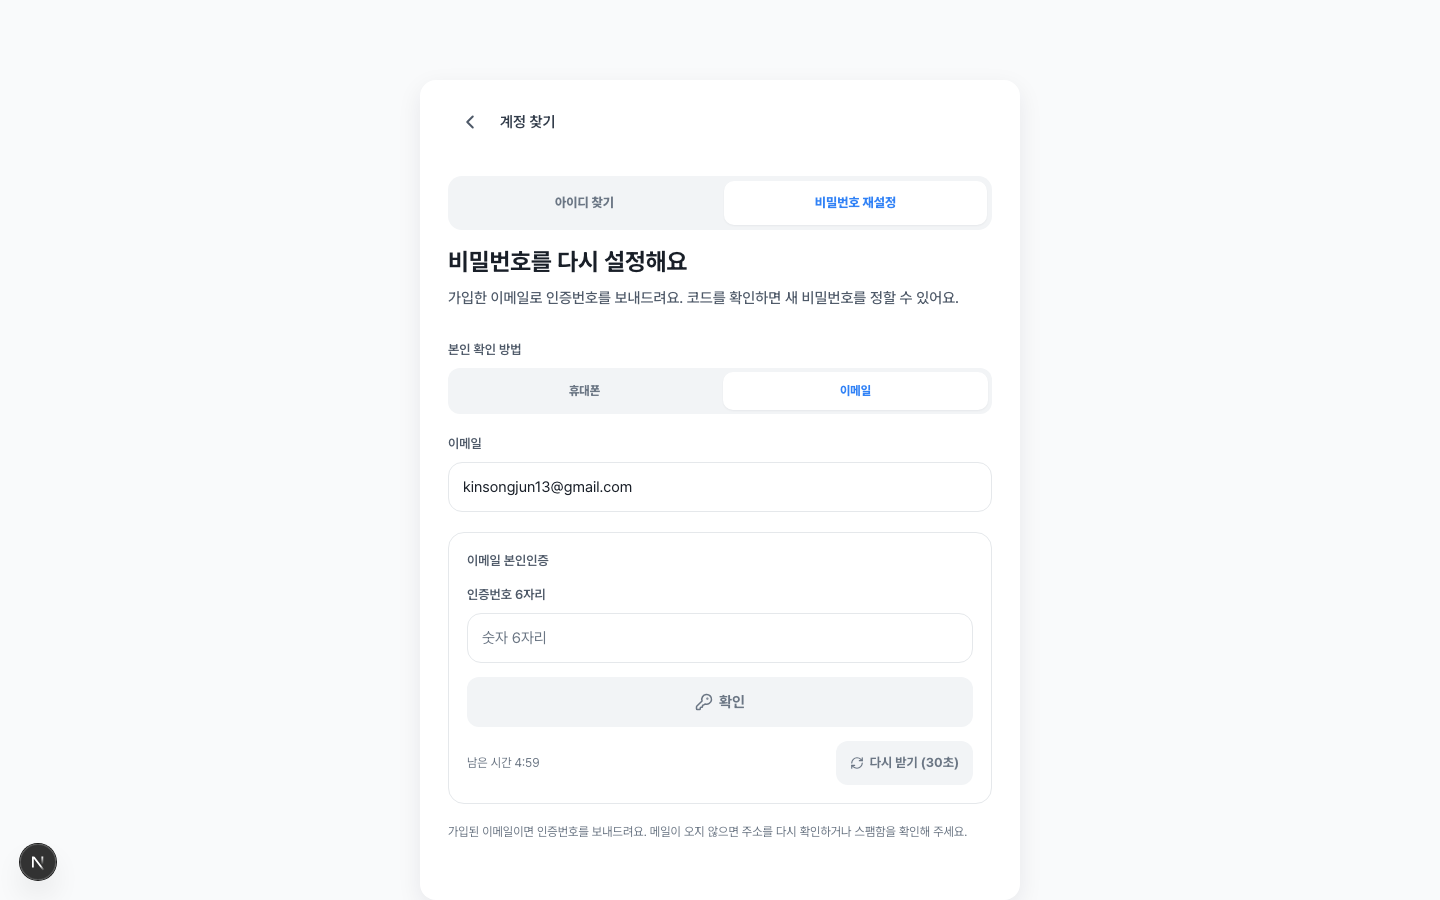
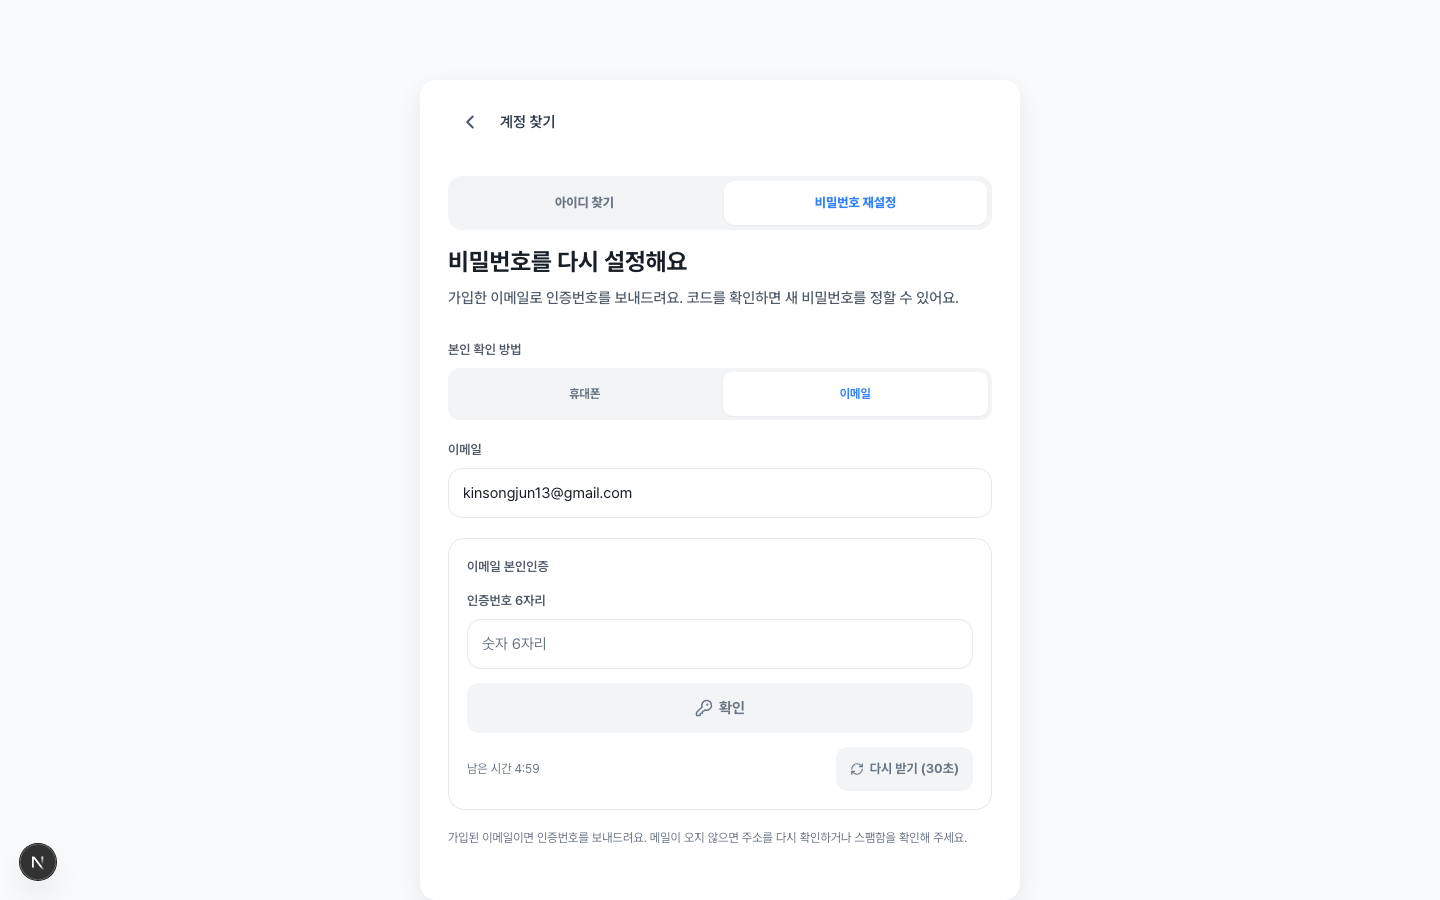
fix(v1_web,docs): Copilot 2차 리뷰 반영 — 축소 세그먼트 터치 타겟 복원 + 문서 누락
축소 변형이 세그먼트 높이를 40→34px(데스크톱 44→38px)로 줄여, 위계를 얻으려다
기본보다 누르기 어려운 표면을 하나 만들었다. 높이는 기본값으로 되돌리고 위계는
자족 크기·간격·모서리로만 낮춘다(실측 390 40px / 1440 44px, 상위 탭과 동일).

문서 레이트리밋 표에 /auth/phone/verify(10회/분)가 빠져 있어 채웠다.
스크린샷은 바뀐 CSS 기준으로 다시 찍었다.

diff --git a/apps/v1_web/src/app/globals.css b/apps/v1_web/src/app/globals.css
@@ -702,15 +702,19 @@ button:disabled {
 }
 
 /* 모드 탭 아래 한 단계 낮은 선택지(계정 찾기의 '본인 확인 방법')에 쓰는 축소 변형.
-   같은 크기의 세그먼트를 두 줄로 쌓으면 어느 쪽이 상위인지 읽히지 않는다. */
+   같은 무게의 세그먼트를 두 줄로 쌓으면 어느 쪽이 상위인지 읽히지 않는다.
+   단 높이는 기본값(터치 타겟)을 그대로 두고, 위계는 자족·간격·모서리로만 낮춘다 —
+   여기서 높이를 줄이면 손가락으로 누르기 어려운 표면이 하나 생긴다. */
 .tm-auth-segmented-sm {
+  gap: 4px;
   padding: 3px;
   border-radius: 12px;
 }
 
 .tm-auth-segmented-sm .tm-auth-segment {
-  min-height: 34px;
+  border-radius: 9px;
   font-size: 12px;
+  font-weight: 700;
 }
 
 /* 인증 폼 안의 보조 영역(사진 업로드·휴대폰 인증) 공통 표면.

diff --git a/apps/v1_web/src/app/desktop/auth.css b/apps/v1_web/src/app/desktop/auth.css
@@ -221,14 +221,11 @@
     min-height: 44px;
   }
 
-  /* 축소 변형은 데스크톱에서도 상위 탭보다 작게 유지한다(위계 유지). */
+  /* 축소 변형은 데스크톱에서도 상위 탭보다 가볍게 유지한다 — 다만 높이(클릭 타겟)는
+     기본값 그대로 두고 간격만 좁힌다. */
   .tm-auth-segmented-sm {
-    gap: 6px;
+    gap: 5px;
     padding: 4px;
-  }
-
-  .tm-auth-segmented-sm .tm-auth-segment {
-    min-height: 38px;
   }
 }
 

diff --git a/docs/api/v1/domains/auth-onboarding.md b/docs/api/v1/domains/auth-onboarding.md
@@ -32,7 +32,7 @@ looking up an email by email is not a thing.
 
 | Concern | Contract |
 |---|---|
-| Rate limit | `find-account` 10/min · `email/confirm` 10/min · `phone/issue`, `email/request`, both reset paths 5/min. Resetting is always at most as wide as looking up. |
+| Rate limit | `phone/verify`, `find-account`, `email/confirm` 10/min · `phone/issue`, `email/request`, both reset paths 5/min. Resetting is always at most as wide as looking up, and the paths that send a message are the narrowest. |
 | Resend cooldown | 30s per target, enforced per phone number and per email address (`VERIFICATION_RESEND_COOLDOWN`). |
 | Attempt cap | 5 wrong codes per challenge (`VERIFICATION_TOO_MANY_ATTEMPTS`). A correct code still succeeds at the cap, so a resubmit is never blocked by earlier typos. |
 | Code TTL | 5 minutes. Proof token TTL 10 minutes. |
